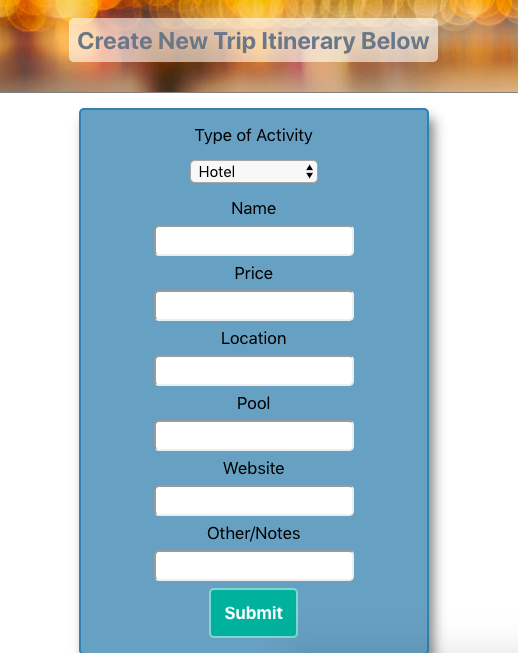
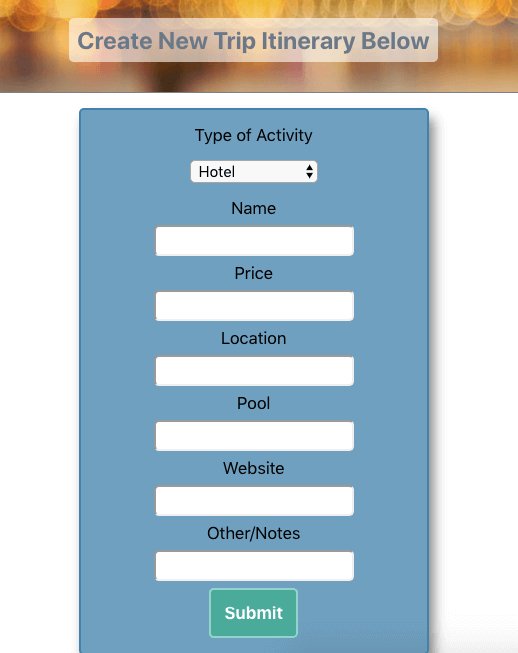
optimized images

diff --git a/src/components/nav.js b/src/components/nav.js
@@ -3,8 +3,10 @@ import {connect} from 'react-redux';
 import {BrowserRouter as Router, Route, Link} from 'react-router-dom';
 import {logout} from '../actions/index';
 import RegistrationForm from './registration-form';
-import LoginForm from './login-form'
-import './nav.css'
+import LoginForm from './login-form';
+import threeLines from '../screenshots/three-lines.png';
+import globe from '../screenshots/globe.png';
+import './nav.css';
 
 export class Nav extends React.Component {
 	constructor(props) { 
@@ -58,17 +60,18 @@ export class Nav extends React.Component {
 				<img 
 				onClick={(e) => this.showLoggedInModal(e)}
 				 className="login-lines" 
[1 lines of base64/hex data omitted]
-				  alt="three lines"></img>
+				 src={threeLines}
+				 alt="three lines"></img>
 
 				<div className={this.state.loggedInClassName}  >
 					<div className="logged-in-modal-content">
 						<span onClick={(e) => this.hideLoggedInModal(e)} className="close">&times;</span>
     					<p>Currrently logged in as {username}</p>
-						<p onClick={(e) => this.hideLoggedInModal(e)}
+						<p className="modal-select" 
+						onClick={(e) => this.hideLoggedInModal(e)}
 						onClick={(e) => this.scrollToTop()}>
 						<Link to={`/user/${this.props.currentUser}`}>MyTrips</Link></p>
-						<p 
+						<p className="modal-select"
 						onClick={(e) => this.hideLoggedInModal(e)} 
 						onClick={() => this.logout()}
 						><Link to={`/`}>Log Out</Link></p>
@@ -83,7 +86,7 @@ export class Nav extends React.Component {
 				<img 
 				onClick={(e) => this.showModal(e)}
 					className="login-lines" 
[1 lines of base64/hex data omitted]
+					src={threeLines}
 					alt="three lines">
 				</img>
 
@@ -100,7 +103,7 @@ export class Nav extends React.Component {
 		
 		<div className="nav-wrapper">
 		<nav role="navigation">
-			<img className="globe" src="https://www.issaquahhighlands.com/wp-content/uploads/2015/06/Travel-Night-globe.png" alt="globe"></img>
+			<img className="globe" src={globe}></img>
 			<h1 className="title">OURtinerary</h1>
 			{navLinks}
 		</nav>

diff --git a/src/components/trip-view.js b/src/components/trip-view.js
@@ -3,7 +3,6 @@ import ItineraryList from './itinerary-list';
 import NewItineraryForm from './new-itinerary-item-form';
 import EditTripForm from './edit-trip-form';
 import {connect} from 'react-redux';
-// import {getTrip} from '../actions'
 import { withRouter } from 'react-router-dom';
 import './trip-view.css';
 
@@ -24,8 +23,8 @@ export class TripView extends React.Component {
     render() {
         const collaboratorsHTML = this.props.trip ? this.props.trip.collaborators.map(collaborator => <li key={collaborator.toString()} >{collaborator}</li>) :'';
       	const tripNameHTML = this.props.trip ? <h2>{this.props.trip.name}<img onClick={(e) => this.toggleEditTripForm(e)} src="http://cdn.onlinewebfonts.com/svg/img_147067.png" alt="edit-pencil"></img></h2> : '';
-        const tripLocationHTML = this.props.trip ? <div><h3>Where:</h3> <p>{this.props.trip.location}</p></div>: '';
-        const tripDatesHTML = this.props.trip ? <div><h3>When:</h3><p>{this.props.trip.dates}</p></div> : '';
+        const tripLocationHTML = this.props.trip ? <div className="where"><h3>Where:</h3><p>{this.props.trip.location}</p></div>: '';
+        const tripDatesHTML = this.props.trip ? <div className="when"><h3>When:</h3><p>{this.props.trip.dates}</p></div> : '';
         const editTripFormHTML = this.state.editTripForm ? <EditTripForm trip={this.props.trip}/> : '';
 
         return (
@@ -33,12 +32,11 @@ export class TripView extends React.Component {
                 <main role="main">
                     <section role="region" className='trip-details'>
                         <div className='trip-name'>
-                        {tripNameHTML}
-          
+                            {tripNameHTML}
                         </div>
                         <div className="where-when">
-                        {tripLocationHTML}
-                        {tripDatesHTML}
+                            {tripLocationHTML}
+                            {tripDatesHTML}
                         </div>
                         <h3>Who's Going:</h3>
                         <ul> 

diff --git a/src/components/trip-view.css b/src/components/trip-view.css
@@ -1,5 +1,5 @@
     .trip-details {
-        background-image: url("https://journalistontherun.com/wp-content/uploads/2015/10/o-SOLO-TRAVEL-facebook.jpg");
+        background-image: url("../screenshots/trip-details.jpg");
         background-color: rgb(0, 99, 151, .05);
         background-size: cover;
         background-repeat: no-repeat;
@@ -34,12 +34,30 @@
     .where-when {
         display: flex;
         justify-content: space-around;
+        flex-direction: column;
+    }
+
+    .where-when p {
+        padding:0px;
+    }
+
+    .where, .when {
+        display: flex;
+        justify-content: center;
+    }
+
+    .where p, .when p {
+        margin:0px;
+        padding:0px;
+        margin-left: 15px;
+        align-self: center;
     }
 
     .trip-details ul {
         display: flex;
+        flex-direction: column;
         justify-content: space-evenly;
-        flex-wrap: wrap;
+        flex-wrap: nowrap;
     }
 
     .trip-details li {

diff --git a/src/components/nav.css b/src/components/nav.css
@@ -94,6 +94,7 @@ button:hover {
 	overflow: auto;
 	text-align: center;
 	top: 0;
+	max-width: 33%;
 }
 
 .logged-in-modal{
@@ -112,13 +113,31 @@ button:hover {
 	padding-bottom: 15px;
 }
 
+.logged-in-modal-content a {
+	text-decoration: none;
+	color: black;
+}
+
+.logged-in-modal-content p {
+	padding-bottom: 15px;
+	padding-top: 15px;
+	margin: 0px;
+	border-bottom: black 2px solid;
+}
+
+.modal-select:hover, .modal-select:hover {
+	background-color: grey;
+	cursor: pointer;
+}
+
 /* The Close Button */
 .close {
-	color: #aaa;
+	color: black;
 	font-size: 38px;
 	font-weight: bold;
 	align-self: flex-end;
 	margin: 0px;
+	margin-right: 5px;
 	padding: 0px;
 }
 

diff --git a/public/index.html b/public/index.html
@@ -2,7 +2,8 @@
 <html lang="en">
   <head>
     <meta charset="utf-8">
-    <link rel="shortcut icon" href="%PUBLIC_URL%/favicon.ico">
+    <link rel="shortcut icon" href="/favicon.ico" type="image/x-icon">
+    <link rel="icon" href="/favicon.ico" type="image/x-icon">
     <meta name="viewport" content="width=device-width, initial-scale=1, shrink-to-fit=no">
     <meta name="theme-color" content="#000000">
     <meta name="description" content="Plan and collaborate on group trips by suggesting itinerary items">

diff --git a/src/components/new-itinerary-item-form.css b/src/components/new-itinerary-item-form.css
@@ -4,7 +4,6 @@
 	padding: 15px;
 	background-color: rgb(0, 99, 151, .6);
 	border-radius: 5px;
-	box-shadow: 5px 10px 18px #888888;
 }
 
 .itinerary-item-form input{

diff --git a/src/components/itinerary-item.css b/src/components/itinerary-item.css
@@ -4,7 +4,6 @@
 	border-radius: 5px;
 	padding-bottom: 0px;
 	font-size: 17px;
-	box-shadow: 5px 10px 18px #888888;
 	background-color: rgb(255, 247, 214, .2);
 
 }

diff --git a/src/components/new-trip-form.css b/src/components/new-trip-form.css
@@ -23,7 +23,6 @@
 	padding: 15px;
 	background-color: rgb(0, 99, 151, .05);
 	border-radius: 5px;
-	box-shadow: 5px 10px 18px #888888;
 }
 
 .new-trip input{

diff --git a/src/components/trip-list.css b/src/components/trip-list.css
@@ -26,7 +26,6 @@
 	margin-top: 10px;
 	margin-bottom: 10px;
 	border-radius: 5px;
-	box-shadow: 5px 10px 18px #888888;
 }
 
 .trips li:hover {
